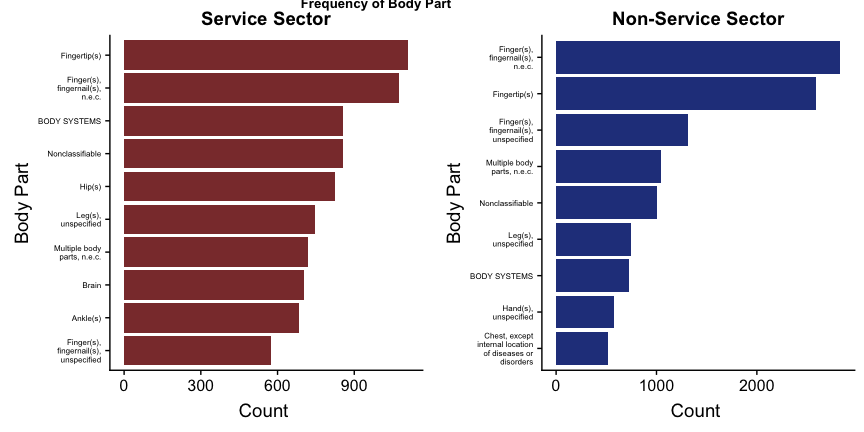
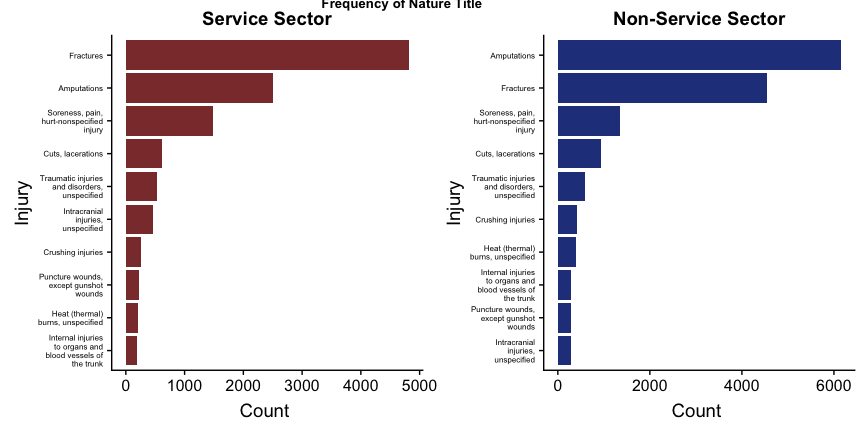
5 Facts Static

diff --git a/5FactsStatic.md b/5FactsStatic.md
@@ -1,4 +1,4 @@
-5FactsStatic
+5 Facts Static
 ================
 
 -   [Data Set](#data-set)
@@ -207,7 +207,11 @@ Seperate the data sets into Service and NonService
 
 We will be using the following chart to separate our data sets. The numbers in the far-right column correspond to the first two digits of our NAICS codes. Utilities made this slightly tricky because it has a NAICS code of 22 which falls in the middle of the NonService producing numbers, but with a little work around our datasets were separated.
 
-![NAICS Codes.](~/Documents/GitHub/DSCCapstone/figures/NAICSCodes.png)
+``` r
+knitr::include_graphics('figures/NAICSCodes.PNG')
+```
+
+<img src="figures/NAICSCodes.PNG" width="100%" />
 
 ``` r
 Utilities = Injury %>% 
@@ -301,7 +305,7 @@ p2 = ggplot(Top10NonService, aes(reorder(NatureTitle, countNon), countNon))+geom
 plot_grid(p1, p2, ncol = 2, labels = "Frequency of Nature Title", vjust = .8, hjust = -2, label_size = 10)
 ```
 
-<img src="5FactsStatic_files/figure-markdown_github/unnamed-chunk-13-1.png" width="100%" />
+<img src="5FactsStatic_files/figure-markdown_github/unnamed-chunk-14-1.png" width="100%" />
 
 The top categories are different in the Service and NonService sector. In the NonService amputations are the most common injury, but in the service sector fractures are the most common. Some other stand out differences are that internal injuries are more common to NonService and Heat injuries and burns are less common in the Service sector. It will be interesting to dive a little deeper into the exact body parts of the injuries and see if there are any more differences.
 
@@ -330,7 +334,7 @@ p4= ggplot(Top10BodyPartNonService, aes(reorder(bodyPart, count), count))+geom_b
 plot_grid( p3, p4, labels = "Frequency of Body Part", vjust = .8, hjust = -2, label_size = 10) 
 ```
 
-<img src="5FactsStatic_files/figure-markdown_github/unnamed-chunk-14-1.png" width="100%" />
+<img src="5FactsStatic_files/figure-markdown_github/unnamed-chunk-15-1.png" width="100%" />
 
 Overwhelmingly fingers and finger tips are the most common body part injured. Most work involves your hands, so this falls in line with what one would expect. Hip injuries appear on Service, but not on NonService. This may be people in offices that are falling. Ankles and Brain also are high on the number of injuries for Service workers. Chest injuries are common in NonService injuries, but that does not show up in the top 10 for Service. There are some big differences in the body parts that are injured between the service and the non service sector. Hands, fingers, legs, and the chest are some of the most common for Non Service work. While for Service, fingers, Hips, Brain, and Ankles are some of the more common.
 
@@ -355,7 +359,7 @@ NonServiceDate = NonService %>%
 ggplot()+ geom_line(data=ServiceDate, aes(group=1,x= month,y= numInjuries), color = "indianred4")+ geom_line(data=NonServiceDate, aes(group=1,x= month,y= numInjuries), color = "royalblue4")+facet_wrap(~ year, ncol = 4)+ labs( title = "Number of Injuries Over Time")
 ```
 
-<img src="5FactsStatic_files/figure-markdown_github/unnamed-chunk-15-1.png" width="100%" />
+<img src="5FactsStatic_files/figure-markdown_github/unnamed-chunk-16-1.png" width="100%" />
 
 Something interesting about this is they follow a very similar pattern. That really isn't something I would expect. I would have thought that they would be a bit more random, however the trends seem to follow each other. This makes me think there is some outside force that is making them do more reports that month. We seem to see spikes in September and October. One inital thought is that those are some of the hotter months, so there could be a rise in heat stokes and dehydration. I would like to follow up and get more information on what happened in August of 2016 to cause such a huge spike.
 
@@ -385,7 +389,7 @@ p7 = ggplot(Top10NonServiceAug2016, aes(reorder(NatureTitle, count), count))+geo
 plot_grid( p6, p7, labels = "Nature Titles in Auguest 2016", vjust = .8, hjust = -2, label_size = 10)
 ```
 
-<img src="5FactsStatic_files/figure-markdown_github/unnamed-chunk-16-1.png" width="100%" />
+<img src="5FactsStatic_files/figure-markdown_github/unnamed-chunk-17-1.png" width="100%" />
 
 We see a lot more heat and light injuries, I wonder if the temperature was extremely high that year in September? This would be a situation where outside weather data would provide more background.
 
